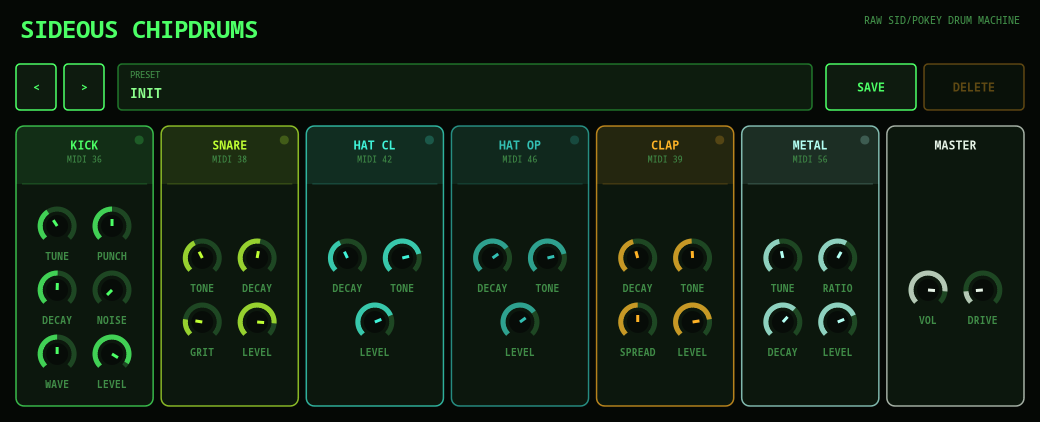
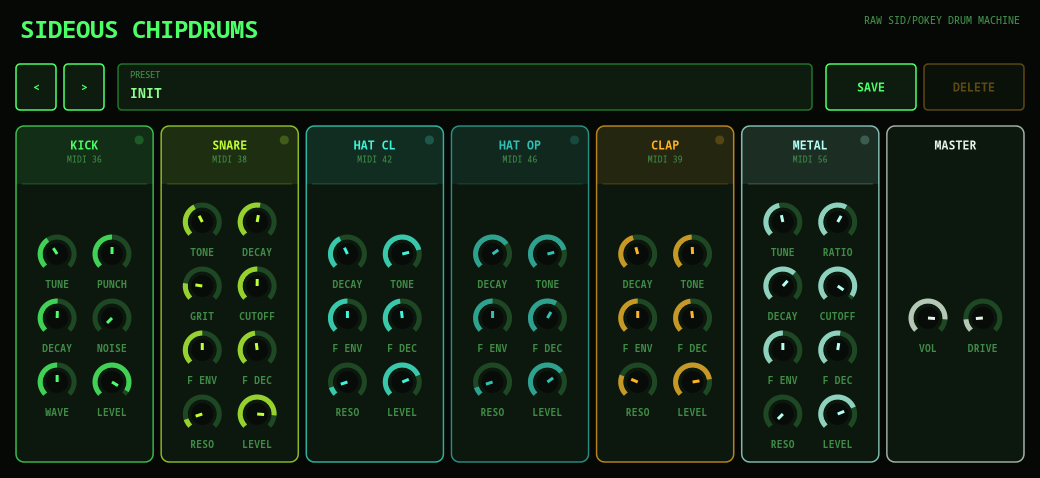
Update Sideous ChipDrums screenshot/feature list: filter envelopes, Clap rewrite
Reflects the new Cutoff/F Env/F Dec/Reso filter envelope on Snare/
Hats/Clap/Metal and Clap's rewrite from a multi-flam trick to a
single filtered noise burst.

diff --git a/index.html b/index.html
@@ -448,21 +448,22 @@
     </div>
     <p class="plugin-desc">
       The small, primitive sibling to Sideous Drums — deliberately the
-      opposite: 6 voices, 2-6 knobs each, no filters beyond a plain
-      highpass/bandpass, no stereo trickery, just pulse oscillators,
-      one-bit-ish noise, and a ring-mod clang. Green-phosphor CRT terminal
-      look instead of a studio-rack palette.
+      opposite: 6 voices, no stereo trickery, just pulse oscillators,
+      one-bit-ish noise, and a ring-mod clang. The noisy/metallic voices
+      each carry a resonant filter with its own envelope — the classic
+      chip "pew"/sweep trick. Green-phosphor CRT terminal look instead of
+      a studio-rack palette.
     </p>
     <img class="shot" src="images/sideous-chipdrums.png" alt="Sideous ChipDrums plugin UI screenshot">
     <ul class="features">
       <li>Fixed 6-voice kit (kick, snare, closed/open hat, clap, metal), GM-ish MIDI map</li>
       <li>Kick's pulse oscillator (Wave: Saw/Pulse/Triangle) driven by a fast decay-only pitch envelope, plus a Noise knob to blend in a raw noise layer</li>
-      <li>Snare blends a fixed-pitch pulse buzz with highpassed noise, Grit knob for extra digital crunch</li>
-      <li>Metal is a ring-mod two-oscillator engine straight into an envelope — the raw inharmonic product is the cowbell/percussion-metal sound</li>
+      <li>Snare, Hat Closed/Open, Clap, and Metal each carry a filter envelope (Cutoff, F Env, F Dec, Reso) sweeping the cutoff away from its resting value — Metal gets a filter for the first time, all default to the prior filterless/fixed-cutoff sound</li>
+      <li>Clap is a single noise burst through a resonant bandpass with its own filter envelope — swapped out from a retriggered multi-flam trick that read as too analog/realistic for this primitive kit</li>
       <li>Click-to-audition trigger pads and live per-voice LED meters built into each column header</li>
       <li>Host-visible note names via LV2 MIDNAM / VST3 IUnitInfo, same as Sideous Drums</li>
       <li>Two builds: single stereo mix, or a 7-bus multi-out version for per-voice routing/sends</li>
-      <li>Built-in file-based preset browser with 7 factory presets (SID Basic, POKEY Punch, Arcade Kit, and more), works in every format including the JACK standalone</li>
+      <li>Built-in file-based preset browser with 8 factory presets (SID Basic, POKEY Punch, Zap Kit, and more), works in every format including the JACK standalone</li>
     </ul>
     <div class="plugin-actions">
       <a class="btn" href="https://github.com/marcin-koziol/Sideous-chipdrums">↗ github.com/marcin-koziol/Sideous-chipdrums</a>
